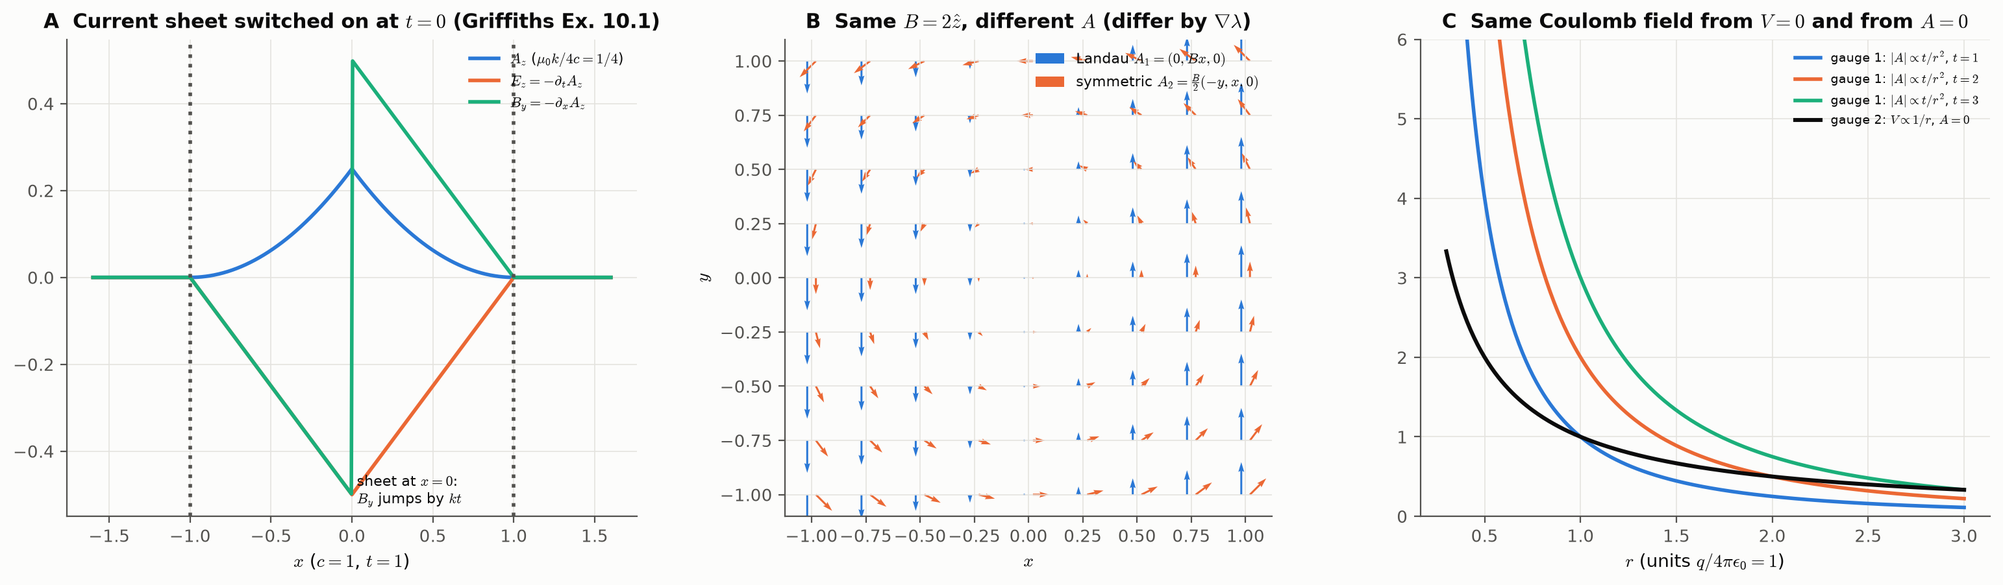
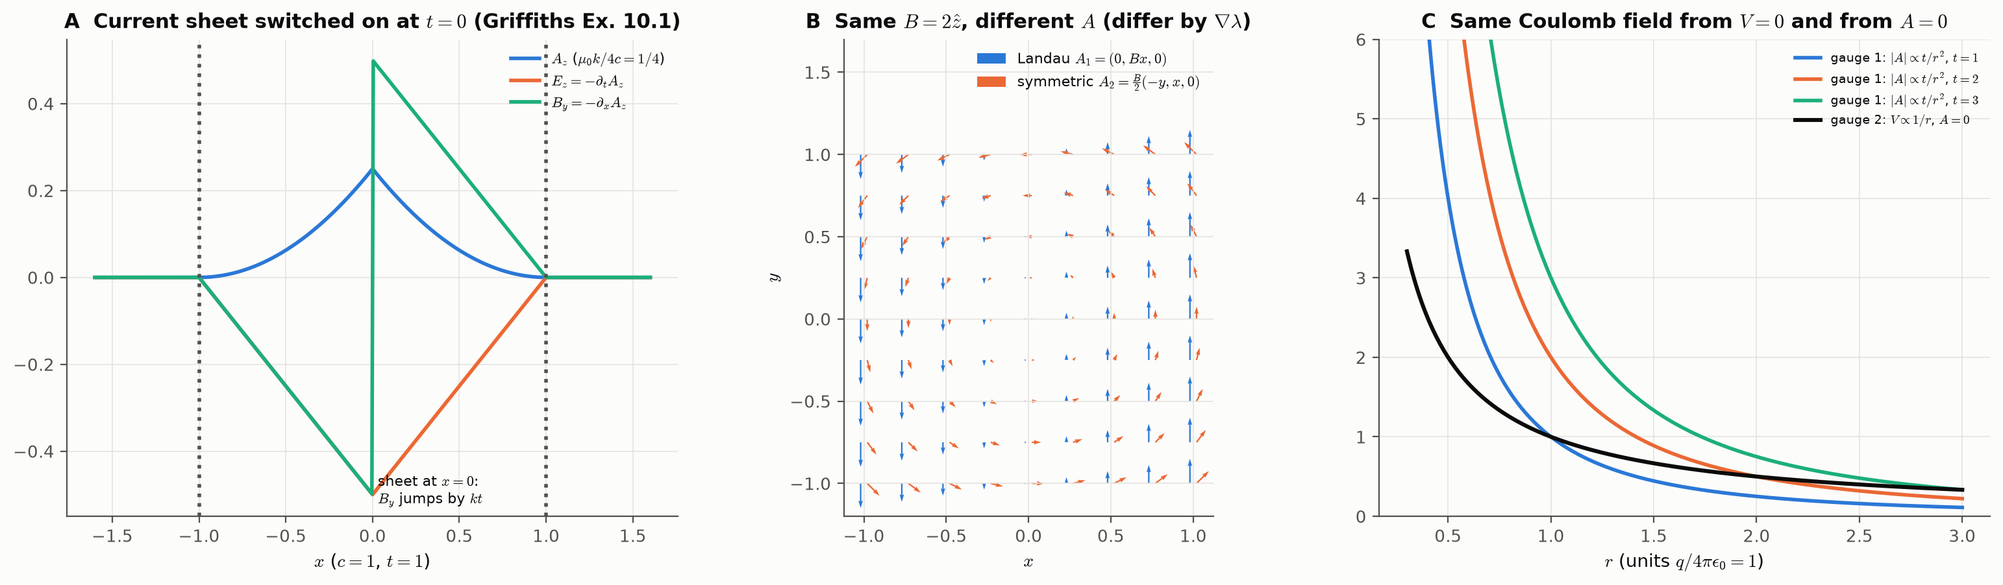
notes: 2026-11-04 13:55

diff --git a/scripts/fig_ed08.py b/scripts/fig_ed08.py
@@ -13,7 +13,7 @@ B=ax[1]
 g=np.linspace(-1,1,9); X,Y=np.meshgrid(g,g)
 B.quiver(X-0.02,Y,0*X,2*X,color=BLUE,angles="xy",scale=30,width=0.004,label="Landau $A_1=(0,Bx,0)$")
 B.quiver(X+0.02,Y,-Y,X,color=ORANGE,angles="xy",scale=30,width=0.004,label="symmetric $A_2=\\frac{B}{2}(-y,x,0)$")
-B.set_aspect("equal"); B.legend(fontsize=8,loc="upper right"); B.set_xlabel("$x$"); B.set_ylabel("$y$"); B.set_title("B  Same $B=2\\hat z$, different $A$ (differ by $\\nabla\\lambda$)")
+B.set_aspect("equal"); B.set_ylim(-1.2,1.7); B.legend(fontsize=8,loc="upper right"); B.set_xlabel("$x$"); B.set_ylabel("$y$"); B.set_title("B  Same $B=2\\hat z$, different $A$ (differ by $\\nabla\\lambda$)")
 C=ax[2]
 r=np.linspace(0.3,3,300)
 for tt,col in ((1,BLUE),(2,ORANGE),(3,AQUA)): C.plot(r,tt/r**2,color=col,label=f"gauge 1: $|A|\\propto t/r^2$, $t={tt}$")

diff --git a/16-Electrodynamics/ED08 Potentials and Gauge Transformations.md b/16-Electrodynamics/ED08 Potentials and Gauge Transformations.md
@@ -1,0 +1,263 @@
+---
+title: ED08 Potentials and Gauge Transformations
+aliases: [ED08, scalar potential, vector potential, potential formulation, gauge transformation, gauge invariance, Lorenz gauge, Lorenz condition, Coulomb gauge, radiation gauge, transverse gauge, d'Alembertian, canonical momentum, Lorentz force in potential form, longitudinal and transverse current]
+subject: electrodynamics
+type: chapter
+chapter: 8
+part: III
+scope: [taught, extra-book, extra-beyond]
+by: [syllabus, book]
+status: draft
+prereq: ["[[ED03 Maxwell's Equations and Boundary Conditions]]", "[[ED05 Electromagnetic Waves in Vacuum]]"]
+tags: [subject/electrodynamics, type/chapter, taught, extra/book, extra/beyond, src/syllabus, src/book, status/draft]
+---
+# ED08 · Potentials and Gauge Transformations
+
+◀ [[ED07 Guided Waves]] · [[Electrodynamics - Course Map]]
+
+<span class="scope-taught">in course overview</span> <span class="scope-extra-book">extra · book</span> <span class="scope-extra-beyond">extra · beyond</span>
+
+> [!warning] Source status (every citation below was read in this session)
+> Overview items *"scalar and vector potentials"* and *"gauge transformations"* (PH3114 outline; no lecture notes in the folder). **Griffiths and Jackson carry equal weight.**
+>
+> **Read directly:** Griffiths §10.1.1-10.1.4 (printed pp. 436-444: scalar and vector potentials, Example 10.1, gauge transformations, Coulomb and Lorenz gauges, the Lorentz force in potential form, with Problems 10.1-10.7 as stated); Jackson §6.2 (pp. 239-240, vector and scalar potentials) and §6.3 (pp. 240-243, gauge transformations, Lorenz and Coulomb gauges, the transverse-current decomposition (6.25)-(6.31)). pdf = printed + 19 (Griffiths), + 26 (Jackson). **Not cited because not read:** Jackson §6.4-6.5 (Green functions and retarded potentials, developed in ED09), Jackson §11.9 (the covariant Lorenz condition, ED11), Griffiths §10.2-10.3, the papers cited in the footnotes.
+
+> [!syllabus] Syllabus map
+> 🟢 **In course overview**: §1 the potentials, §2 gauge freedom, §3 Lorenz gauge, §4 Coulomb gauge.
+>
+> 🟡 **Extra · book**: §4.2 transverse and longitudinal currents (Jackson (6.25)-(6.30)), §5 the Lorentz force in potential form (Griffiths §10.1.4).
+>
+> 🔵 **Extra · beyond (mine)**: the numerical checks of Griffiths' current-sheet potentials, of gauge invariance under an arbitrary $\lambda(\mathbf r,t)$ and of the restricted Lorenz transformation, the Coulomb-gauge solution for a charging point charge, the Landau/symmetric gauge trajectory test, the counting of degrees of freedom, `scripts/ed08_numbers.py`, `scripts/fig_ed08.py`.
+
+> [!key] After this chapter you can
+> - write $\mathbf E=-\nabla V-\partial_t\mathbf A$, $\mathbf B=\nabla\times\mathbf A$ and say which two Maxwell equations this satisfies **identically**,
+> - derive the coupled equations for $V$ and $\mathbf A$ and bring them to the **wave-equation form** in the **Lorenz gauge**,
+> - perform a **gauge transformation**, show the fields are unchanged and the **canonical momentum** is not,
+> - use the **Coulomb gauge** and explain the apparent "instantaneous" scalar potential,
+> - write the **Lorentz force law in potential form** and relate it to the Lagrangian of CM02.
+
+> [!intuition] The one-sentence story
+> The two homogeneous Maxwell equations say that $\mathbf B$ is a curl and that $\mathbf E+\partial_t\mathbf A$ is a gradient; once those are solved identically by writing the fields through $(V,\mathbf A)$, four functions replace six, and the potentials are still only defined up to a gauge function $\lambda(\mathbf r,t)$, a freedom you spend to make the remaining equations as simple as possible: either the symmetric wave equations of the Lorenz gauge, or the instantaneous Poisson equation of the Coulomb gauge.
+
+```mermaid
+flowchart LR
+  A["∇·B = 0 ⇒ B = ∇×A"] --> C["E = -∇V - ∂A/∂t"]
+  B["Faraday ⇒ ∇×(E + ∂A/∂t) = 0"] --> C
+  C --> D["Gauss + Ampère-Maxwell:<br/>2 coupled equations for V, A"]
+  D --> E["gauge freedom:<br/>A → A + ∇λ, V → V - ∂λ/∂t"]
+  E --> F["Lorenz: ∇·A = -μ₀ε₀ ∂V/∂t<br/>⇒ □²V = -ρ/ε₀, □²A = -μ₀J"]
+  E --> G["Coulomb: ∇·A = 0<br/>⇒ ∇²V = -ρ/ε₀"]
+```
+
+## 1. The potentials
+Maxwell's equations (Griffiths (10.1)) $\nabla\!\cdot\!\mathbf E=\rho/\epsilon_0$, $\nabla\!\cdot\!\mathbf B=0$, $\nabla\times\mathbf E=-\partial_t\mathbf B$, $\nabla\times\mathbf B=\mu_0\mathbf J+\mu_0\epsilon_0\partial_t\mathbf E$ ask: given $\rho(\mathbf r,t)$ and $\mathbf J(\mathbf r,t)$, what are $\mathbf E(\mathbf r,t)$ and $\mathbf B(\mathbf r,t)$? "This is not an easy problem, and it pays to begin by representing the fields in terms of potentials" (Griffiths). In electrostatics $\nabla\times\mathbf E=0$ allowed $\mathbf E=-\nabla V$; now $\nabla\times\mathbf E\ne0$. But $\mathbf B$ is still divergenceless, so
+
+$$\mathbf B=\nabla\times\mathbf A\qquad(10.2),\ \text{Jackson (6.7)}.$$
+
+Faraday's law then reads $\nabla\times(\mathbf E+\partial_t\mathbf A)=0$, and a curl-free vector is a gradient:
+
+$$\mathbf E=-\nabla V-\frac{\partial\mathbf A}{\partial t}\qquad(10.3),\ \text{Jackson (6.9)}.$$
+
+"The definition of $\mathbf B$ and $\mathbf E$ in terms of the potentials satisfies identically the two homogeneous Maxwell equations" (Jackson), $\nabla\!\cdot\!\mathbf B=0$ and Faraday. What remains are the two inhomogeneous ones. Substituting:
+
+$$\nabla^2V+\frac\partial{\partial t}(\nabla\!\cdot\!\mathbf A)=-\frac\rho{\epsilon_0}\qquad(10.4),\ \text{Jackson (6.10)},$$
+
+$$\Bigl(\nabla^2\mathbf A-\mu_0\epsilon_0\frac{\partial^2\mathbf A}{\partial t^2}\Bigr)-\nabla\Bigl(\nabla\!\cdot\!\mathbf A+\mu_0\epsilon_0\frac{\partial V}{\partial t}\Bigr)=-\mu_0\mathbf J\qquad(10.5),\ \text{Jackson (6.11)},$$
+
+(the second uses $\nabla\times(\nabla\times\mathbf A)=\nabla(\nabla\!\cdot\!\mathbf A)-\nabla^2\mathbf A$). Griffiths: "Equations 10.4 and 10.5 contain all the information in Maxwell's equations." In the more symmetrical form of his Problem 10.1, with the d'Alembertian $\square^2\equiv\nabla^2-\mu_0\epsilon_0\partial_t^2$ and $L\equiv\nabla\!\cdot\!\mathbf A+\mu_0\epsilon_0\partial_tV$,
+
+$$\square^2V+\frac{\partial L}{\partial t}=-\frac\rho{\epsilon_0},\qquad\square^2\mathbf A-\nabla L=-\mu_0\mathbf J\qquad(10.6),$$
+
+which one checks by adding and subtracting $\mu_0\epsilon_0\partial_t^2V$ in (10.4). Jackson: "we have now reduced the set of four Maxwell equations to two equations. But they are still coupled equations."
+
+> [!example] Worked example 1 (Griffiths Example 10.1): a current sheet switched on at $t=0$
+> The potentials $V=0$, $\mathbf A=\dfrac{\mu_0k}{4c}(ct-|x|)^2\hat{\mathbf z}$ for $|x|<ct$ and $0$ for $|x|>ct$ give, from (10.2)-(10.3),
+>
+> $$\mathbf E=-\partial_t\mathbf A=-\frac{\mu_0k}2(ct-|x|)\hat{\mathbf z},\qquad\mathbf B=\nabla\times\mathbf A=\pm\frac{\mu_0k}{2c}(ct-|x|)\hat{\mathbf y}\ \ (+\text{ for }x>0)$$
+>
+> for $|x|<ct$, and $\mathbf E=\mathbf B=0$ outside. All Maxwell equations hold with $\rho=\mathbf J=0$ except on the plane $x=0$ where $\mathbf B$ jumps by $\mu_0kt$: a uniform surface current $\mathbf K=kt\hat{\mathbf z}$ starting at $t=0$ and growing linearly. "The news travels out (in both directions) at the speed of light": for $|x|>ct$ the message "current is now flowing" has not arrived. Numerical check (units $c=\mu_0=\epsilon_0=1$, $k=1$, central differences at $x=0.3$, $t=1$): $E_z=-0.350000$ and $B_y=+0.350000$ as predicted, and the Faraday and Ampère-Maxwell residuals are $3.5\times10^{-9}$ and $2.1\times10^{-8}$. (Numbers in SI: $K=kt$ with $k=10^6$ A m⁻¹ s⁻¹ and $t=5\ \mu$s gives $B_y(0^\pm)=\pm\mu_0kt/2=\pm3.14\ \mu$T, $E_z(0)=-\mu_0kct/2=-942$ V/m, and fields filling $|x|<ct=1.5$ km.)
+
+![[fig_ed08_gauge.png]]
+
+## 2. Gauge freedom
+Equations (10.2)-(10.3) do not define the potentials uniquely. Suppose $(V,\mathbf A)$ and $(V',\mathbf A')=(V+\beta,\mathbf A+\boldsymbol\alpha)$ give the same fields (Griffiths §10.1.2). Equal $\mathbf B$ requires $\nabla\times\boldsymbol\alpha=0$, so $\boldsymbol\alpha=\nabla\lambda$; equal $\mathbf E$ requires $\nabla\beta+\partial_t\boldsymbol\alpha=0$, i.e. $\nabla(\beta+\partial_t\lambda)=0$, so $\beta=-\partial_t\lambda+k(t)$, and $k(t)$ can be absorbed into $\lambda$. Conclusion:
+
+$$\boxed{\;\mathbf A'=\mathbf A+\nabla\lambda,\qquad V'=V-\frac{\partial\lambda}{\partial t}\;}\qquad(10.7),\ \text{Jackson (6.12)-(6.13)}.$$
+
+For any scalar $\lambda(\mathbf r,t)$ one may add $\nabla\lambda$ to $\mathbf A$ provided one simultaneously subtracts $\partial_t\lambda$ from $V$: this does not affect the physical $\mathbf E$ and $\mathbf B$ (**gauge invariance**). Griffiths' accounting: we have reduced six problems (the components of $\mathbf E$ and $\mathbf B$) to four ($V$ and the three components of $\mathbf A$), and the gauge freedom lets us impose one extra condition, typically on $\nabla\!\cdot\!\mathbf A$, to simplify (10.4)-(10.5). "In electrodynamics the situation is not so clear cut, and the most convenient gauge depends to some extent on the problem at hand."
+
+> [!example] Worked example 2 (Griffiths Problem 10.3, solved here): a static charge from $V=0$
+> $V=0$, $\mathbf A=-\dfrac{1}{4\pi\epsilon_0}\dfrac{qt}{r^2}\hat{\mathbf r}$. Then $\mathbf B=\nabla\times\mathbf A=0$ (a radial function) and $\mathbf E=-\partial_t\mathbf A=\dfrac{q}{4\pi\epsilon_0r^2}\hat{\mathbf r}$: the Coulomb field of a *static* charge $q$ at the origin, with $\rho=q\delta^3(\mathbf r)$ and $\mathbf J=0$. Now apply $\lambda=-\dfrac{1}{4\pi\epsilon_0}\dfrac{qt}r$: $\nabla\lambda=+\dfrac{qt}{4\pi\epsilon_0r^2}\hat{\mathbf r}$ (since $\nabla(1/r)=-\hat{\mathbf r}/r^2$), so $\mathbf A'=\mathbf A+\nabla\lambda=0$ and $V'=V-\partial_t\lambda=\dfrac q{4\pi\epsilon_0r}$: the textbook electrostatic potentials. The two descriptions are very different (one has $V=0$ and a vector potential growing linearly in time, the other has no vector potential) but identical physics (panel C). Neither original gauge condition holds *at the origin* for the first set, because $\nabla\!\cdot(\hat{\mathbf r}/r^2)=4\pi\delta^3(\mathbf r)$ gives $\nabla\!\cdot\!\mathbf A=-(qt/\epsilon_0)\delta^3(\mathbf r)\ne0$.
+
+> [!example] Worked example 3: the gauge function really does nothing to the fields (🔵 numerical)
+> Take the sheet potentials of Example 1 and a deliberately wild gauge function $\lambda(\mathbf r,t)=\sin(x+2y-3z+0.7t)\,e^{-0.1r^2}(1+t)$. At $(0.3,0.2,0.1)$, $t=1$: the potentials change by $|\mathbf A'-\mathbf A|=3.3$, yet recomputing $\mathbf E',\mathbf B'$ by central differences gives differences of only $1.8\times10^{-7}$ and $1.4\times10^{-7}$ (finite-difference error): the fields are unchanged.
+
+## 3. The Lorenz gauge
+### 3.1 The condition and the wave equations
+Choose
+
+$$\nabla\!\cdot\!\mathbf A=-\mu_0\epsilon_0\frac{\partial V}{\partial t}\quad\Bigl(\text{Jackson }(6.14):\ \nabla\!\cdot\!\mathbf A+\frac1{c^2}\frac{\partial V}{\partial t}=0\Bigr)\qquad(10.12).$$
+
+In the language of (10.6) this sets $L=0$ and kills the coupling term in (10.5). The potentials then obey (Griffiths (10.13)-(10.16); Jackson (6.15)-(6.16))
+
+$$\boxed{\;\square^2V=-\frac\rho{\epsilon_0},\qquad\square^2\mathbf A=-\mu_0\mathbf J,\qquad\square^2\equiv\nabla^2-\frac1{c^2}\frac{\partial^2}{\partial t^2}\;}$$
+
+two **uncoupled inhomogeneous wave equations**, treating $V$ and $\mathbf A$ "on an equal footing". Jackson: (6.14)-(6.16) form "a set of equations equivalent in all respects to the Maxwell equations in vacuum". Griffiths: this "democratic treatment" is especially nice for special relativity, where the d'Alembertian is the natural four-dimensional Laplacian and (10.16) are "four-dimensional versions of Poisson's equation"; Jackson gives both reasons for its popularity: the wave equations, and that the Lorenz condition "is a concept independent of the coordinate system chosen and so fits naturally into the considerations of special relativity" (his §11.9, ED11). From now on Griffiths uses the Lorenz gauge exclusively, "and the whole of electrodynamics reduces to the problem of solving the inhomogeneous wave equation for a specified source" (ED09). (Footnote: the name honours L. V. Lorenz, 1867, not H. A. Lorentz; Jackson cites "Lorenz condition (1867)".)
+
+### 3.2 Can it always be imposed?
+Yes. Suppose $(V,\mathbf A)$ satisfy (10.4)-(10.5) but not the Lorenz condition. A gauge transformation to $(V',\mathbf A')$ satisfies it if
+
+$$\nabla^2\lambda-\frac1{c^2}\frac{\partial^2\lambda}{\partial t^2}=-\Bigl(\nabla\!\cdot\!\mathbf A+\frac1{c^2}\frac{\partial V}{\partial t}\Bigr)\qquad(6.18),$$
+
+an inhomogeneous wave equation for $\lambda$, which always has solutions (Griffiths Problem 10.6 asks the same). There is **residual freedom**: the restricted transformations with $\square^2\lambda=0$ (Jackson (6.19)-(6.20)) preserve the Lorenz condition, and "all potentials in this restricted class are said to belong to the Lorenz gauge".
+
+> [!example] Worked example 4: a restricted transformation and a plane wave (Griffiths Problem 10.4 setting)
+> $V=0$, $\mathbf A=A_0\sin(kx-\omega t)\hat{\mathbf y}$: $\nabla\!\cdot\!\mathbf A=0$ and $\partial_tV=0$, so this is in the Coulomb **and** the Lorenz gauge ("these gauges are not mutually exclusive", Griffiths). Then $\mathbf E=-\partial_t\mathbf A=\omega A_0\cos(kx-\omega t)\hat{\mathbf y}$ and $\mathbf B=\nabla\times\mathbf A=kA_0\cos(kx-\omega t)\hat{\mathbf z}$, with $E/B=\omega/k$; Maxwell's equations in vacuum hold only if $\omega=ck$ (so $E=cB$, ED05). Now transform with $\lambda=\sin(kx-\omega t)$: $\square^2\lambda=-(k^2-\omega^2/c^2)\sin(kx-\omega t)=0$ precisely when $\omega=ck$, so this $\lambda$ is in the restricted class: the new potentials $A_x'=k\cos(kx-\omega t)$, $V'=\omega\cos(kx-\omega t)$ still satisfy the Lorenz condition ($\nabla\!\cdot\!\mathbf A'+c^{-2}\partial_tV'=-k^2\sin+\omega^2c^{-2}\sin=0$) but no longer the Coulomb condition, and give the same $\mathbf E,\mathbf B$.
+
+## 4. The Coulomb gauge
+### 4.1 The scalar potential is instantaneous
+Choose $\nabla\!\cdot\!\mathbf A=0$ (Griffiths (10.8); Jackson (6.21), "the Coulomb, radiation, or transverse gauge"), as in magnetostatics. Then (10.4) becomes Poisson's equation,
+
+$$\nabla^2V=-\frac\rho{\epsilon_0},\qquad V(\mathbf r,t)=\frac1{4\pi\epsilon_0}\int\frac{\rho(\mathbf r',t)}{|\mathbf r-\mathbf r'|}\,\mathrm d\tau'\qquad(10.9)\text{-}(10.10),\ (6.22)\text{-}(6.23):$$
+
+the instantaneous Coulomb potential of the charge distribution *now*, whence the name. Griffiths calls this "a very peculiar thing": if I move an electron in my laboratory the potential on the moon immediately records the change, which seems to contradict special relativity. His resolution (and Jackson's): *$V$ alone is not measurable*; what is measured is $\mathbf E=-\nabla V-\partial_t\mathbf A$, and in the Coulomb gauge the combination changes only after the news arrives, because the vector potential compensates. Jackson adds that the vector potential obeys a wave equation with finite speed $c$, and that the source for it, the transverse current (§4.2), "extends over all space, even if $\mathbf J$ is localized". "It is the fields, not the potentials, that concern us."
+
+### 4.2 The vector potential and the transverse current (🟡)
+In this gauge (10.5) becomes $\nabla^2\mathbf A-\mu_0\epsilon_0\partial_t^2\mathbf A=-\mu_0\mathbf J+\mu_0\epsilon_0\nabla(\partial_tV)$ (Griffiths (10.11), Jackson (6.24)). Griffiths' verdict: the scalar potential is "particularly simple to calculate"; the disadvantages are the acausal-looking $V$ and that $\mathbf A$ is "particularly difficult to calculate". Jackson explains the structure of the awkward term. The $\nabla\partial_tV$ term is a gradient (curl-free). Write any current as $\mathbf J=\mathbf J_l+\mathbf J_t$ with $\nabla\times\mathbf J_l=0$ (longitudinal, irrotational) and $\nabla\!\cdot\!\mathbf J_t=0$ (transverse, solenoidal), constructed explicitly as
+
+$$\mathbf J_l=-\frac1{4\pi}\nabla\!\int\frac{\nabla'\!\cdot\!\mathbf J(\mathbf x')}{|\mathbf x-\mathbf x'|}\mathrm d^3x'\ (6.27),\qquad\mathbf J_t=\frac1{4\pi}\nabla\times\nabla\times\!\int\frac{\mathbf J(\mathbf x')}{|\mathbf x-\mathbf x'|}\mathrm d^3x'\ (6.28)$$
+
+(from $\nabla\times\nabla\times\mathbf J=\nabla(\nabla\!\cdot\!\mathbf J)-\nabla^2\mathbf J$ and $\nabla^2|\mathbf x-\mathbf x'|^{-1}=-4\pi\delta^3$). With the continuity equation and (6.23) the gradient term exactly cancels $\mu_0\mathbf J_l$ (6.29), so
+
+$$\nabla^2\mathbf A-\frac1{c^2}\frac{\partial^2\mathbf A}{\partial t^2}=-\mu_0\mathbf J_t\qquad(6.30):$$
+
+the source is entirely the transverse current, hence the name "transverse gauge". "Radiation gauge" because the transverse radiation fields are given by the vector potential alone and the instantaneous Coulomb potential contributes only to the near fields; Jackson notes the gauge is particularly useful in quantum electrodynamics, where photons arise from quantizing only $\mathbf A$. With **no sources** the Coulomb gauge is the simplest: $V=0$, $\mathbf A$ satisfies the homogeneous wave equation, and
+
+$$\mathbf E=-\frac{\partial\mathbf A}{\partial t},\qquad\mathbf B=\nabla\times\mathbf A\qquad(6.31),$$
+
+as in Worked example 4.
+
+> [!example] Worked example 5 (Griffiths Problem 10.7, solved here): a point charge that is changing
+> $\rho=q(t)\delta^3(\mathbf r)$ fed by the current $\mathbf J=-\dfrac1{4\pi}\dfrac{\dot q}{r^2}\hat{\mathbf r}$ (Griffiths' form). Charge conservation: away from the origin $\nabla\!\cdot\!\mathbf J=0=-\partial_t\rho$; at the origin the delta function in $\nabla\!\cdot\!\mathbf J=-\dot q\,\delta^3(\mathbf r)$ balances $\partial_t\rho=\dot q\,\delta^3$ ✓. **Coulomb gauge:** $V=\dfrac{q(t)}{4\pi\epsilon_0r}$ (instantaneous, from (10.10)) and $\mathbf A=0$ solves (10.11): its right-hand side is $-\mu_0\mathbf J+\mu_0\epsilon_0\nabla(\partial_tV)=-\mu_0\mathbf J+\dfrac{\mu_0\dot q}{4\pi}\nabla\dfrac1r=-\mu_0\mathbf J-\dfrac{\mu_0\dot q}{4\pi}\dfrac{\hat{\mathbf r}}{r^2}=0$ ✓ (the longitudinal current is cancelled exactly). The fields are $\mathbf E=\dfrac{q(t)}{4\pi\epsilon_0r^2}\hat{\mathbf r}$, $\mathbf B=0$, and Ampère-Maxwell checks: $0=\mu_0\mathbf J+\mu_0\epsilon_0\partial_t\mathbf E=\mu_0\mathbf J+\dfrac{\mu_0\dot q}{4\pi r^2}\hat{\mathbf r}$ ✓. The field at distance $r$ changes *instantly* when $q(t)$ changes: this looks acausal but the source is a pathological, spherically symmetric current that has no transverse part (a point charge changing without moving charge flowing in from elsewhere in a physically causal way); in the Lorenz gauge the same fields arise from retarded potentials (ED09).
+
+## 5. The Lorentz force in potential form (🟡, Griffiths §10.1.4)
+The force on a charge is $\mathbf F=\dfrac{\mathrm d\mathbf p}{\mathrm dt}=q(\mathbf E+\mathbf v\times\mathbf B)=q\bigl[-\nabla V-\partial_t\mathbf A+\mathbf v\times(\nabla\times\mathbf A)\bigr]$ (10.17). With $\nabla(\mathbf v\!\cdot\!\mathbf A)=\mathbf v\times(\nabla\times\mathbf A)+(\mathbf v\!\cdot\!\nabla)\mathbf A$ ($\mathbf v$ is a function of time, not of position),
+
+$$\frac{\mathrm d\mathbf p}{\mathrm dt}=-q\Bigl[\frac{\partial\mathbf A}{\partial t}+(\mathbf v\!\cdot\!\nabla)\mathbf A\Bigr]-q\nabla\bigl(V-\mathbf v\!\cdot\!\mathbf A\bigr)\qquad(10.18).$$
+
+The bracket is the **convective derivative** $\mathrm d\mathbf A/\mathrm dt$, the rate of change of $\mathbf A$ at the moving location of the particle (10.19): it changes for two reasons, because $\mathbf A$ varies in time and because the particle moves to where $\mathbf A$ differs. So
+
+$$\frac{\mathrm d}{\mathrm dt}\bigl(\mathbf p+q\mathbf A\bigr)=-\nabla\bigl[q(V-\mathbf v\!\cdot\!\mathbf A)\bigr]\qquad(10.20),$$
+
+"reminiscent of the standard formula from mechanics, for the motion of a particle whose potential energy $U$ is a specified function of position", $\mathrm d\mathbf p/\mathrm dt=-\nabla U$: the role of $\mathbf p$ is played by the **canonical momentum** $\mathbf p_{\rm can}=\mathbf p+q\mathbf A$ (10.21) and that of $U$ by the velocity-dependent $U_{\rm vel}=q(V-\mathbf v\!\cdot\!\mathbf A)$ (10.22). This is exactly the velocity-dependent potential and the Lagrangian $L=\tfrac12mv^2-qV+q\mathbf A\!\cdot\!\mathbf v$ of **CM02 §6.1** (Goldstein (1.62)-(1.63)), and the canonical momentum of CM03 §2: Euler-Lagrange for this $L$ is (10.20). A gauge transformation changes the Lagrangian by a total derivative, $L'=L+q(\partial_t\lambda+\mathbf v\!\cdot\!\nabla\lambda)=L+q\,\mathrm d\lambda/\mathrm dt$ (CM02 P9, CM01 §5): same equations of motion, but $\mathbf p_{\rm can}\to\mathbf p_{\rm can}+q\nabla\lambda$. This is why *physical* predictions involve $\mathbf p_{\rm can}-q\mathbf A=m\mathbf v$ and never $\mathbf p_{\rm can}$ alone. (In quantum mechanics this becomes minimal coupling, $\mathbf p\to\mathbf p-q\mathbf A$; my remark, not from the sources.)
+
+> [!example] Worked example 6: Landau versus symmetric gauge (🔵, ties to CM03 Worked example 1)
+> Uniform $\mathbf B=B\hat{\mathbf z}$ has two standard vector potentials, $\mathbf A_1=(0,Bx,0)$ and $\mathbf A_2=\tfrac B2(-y,x,0)$, both with $\nabla\times\mathbf A=B\hat{\mathbf z}$. Their difference is $\mathbf A_1-\mathbf A_2=\tfrac B2(y,x,0)=\nabla\lambda$ with $\lambda=Bxy/2$. Hamilton's equations $H=(\mathbf p-q\mathbf A)^2/2m$ in each gauge, with $q=m=1$, $B=2$, started from the same position $(1,0)$ and velocity $(0.5,0.3)$: the canonical momenta differ ($\mathbf p_1=(0.5,2.3)$, $\mathbf p_2=(0.5,1.3)$, difference $q\nabla\lambda=(0,1)$ at that point) but the trajectories coincide: at $t=5$ the positions are $(1.139855,-0.541371)$ in both gauges.
+
+## 6. Counting what is physical (🔵)
+Six field components, $\mathbf E$ and $\mathbf B$, become four potential components. One gauge function $\lambda$ removes one combination, and Gauss's law is an equation of constraint on the remaining three (ED03 §4.2); what is left is two independent field degrees of freedom per point: the two polarizations of a free wave (ED05 §4). In the Lorenz gauge the residual freedom $\square^2\lambda=0$ plays the same role; in the Coulomb gauge with no sources $V=0$ and the condition $\nabla\!\cdot\!\mathbf A=0$ makes $\mathbf A$ transverse, with exactly two components.
+
+## Map of this chapter
+```mermaid
+flowchart TD
+  M["homogeneous Maxwell"] --> P["B = ∇×A, E = -∇V - ∂A/∂t"]
+  P --> EQ["(10.4), (10.5)"]
+  P --> GF["gauge: A + ∇λ, V - ∂λ/∂t"]
+  GF --> LG["Lorenz: wave equations"]
+  GF --> CG["Coulomb: Poisson + transverse J"]
+  GF --> PC["canonical momentum shifts<br/>by q ∇λ"]
+  P --> LF["Lorentz force: d(p + qA)/dt = -∇[q(V - v·A)]"]
+  LF --> LAG["Lagrangian (CM02)"]
+```
+
+## Common mistakes
+1. Treating $V$ and $\mathbf A$ as measurable: only $\mathbf E$ and $\mathbf B$ are (and $\mathbf p-q\mathbf A$ for a charge).
+2. Changing $\mathbf A$ by $\nabla\lambda$ without changing $V$ by $-\partial_t\lambda$ (or the reverse).
+3. Using the Coulomb-gauge $V$ as a signal: it is instantaneous but $\mathbf E$ is not.
+4. Believing the Lorenz gauge is a unique choice: residual gauge transformations with $\square^2\lambda=0$ remain.
+5. Dropping the longitudinal-current cancellation when deriving the Coulomb-gauge equation for $\mathbf A$.
+6. Assuming gauges are mutually exclusive: a pure plane wave with $V=0$, $\nabla\!\cdot\!\mathbf A=0$ is in both.
+
+## Summary
+- $\mathbf B=\nabla\times\mathbf A$, $\mathbf E=-\nabla V-\partial_t\mathbf A$ solve $\nabla\!\cdot\!\mathbf B=0$ and Faraday identically; the other two give (10.4)-(10.5).
+- Gauge transformation $\mathbf A'=\mathbf A+\nabla\lambda$, $V'=V-\partial_t\lambda$; $\mathbf E,\mathbf B$ invariant.
+- Lorenz gauge $\nabla\!\cdot\!\mathbf A=-\mu_0\epsilon_0\partial_tV$: $\square^2V=-\rho/\epsilon_0$, $\square^2\mathbf A=-\mu_0\mathbf J$; residual $\square^2\lambda=0$.
+- Coulomb gauge $\nabla\!\cdot\!\mathbf A=0$: $\nabla^2V=-\rho/\epsilon_0$ (instantaneous), $\square^2\mathbf A=-\mu_0\mathbf J_t$; source-free: $V=0$.
+- Force: $\mathrm d(\mathbf p+q\mathbf A)/\mathrm dt=-\nabla[q(V-\mathbf v\!\cdot\!\mathbf A)]$; $\mathbf p_{\rm can}\to\mathbf p_{\rm can}+q\nabla\lambda$, $L\to L+q\,\mathrm d\lambda/\mathrm dt$.
+- Numbers: sheet field $B_y=3.14\ \mu$T at $t=5\ \mu$s; fields invariant to $10^{-7}$ under a wild $\lambda$; trajectories identical in both gauges to $10^{-8}$.
+
+## Practice
+> [!question]- P1. Homogeneous equations
+> Show $\nabla\!\cdot\!\mathbf B=0$ and Faraday's law hold identically for (10.2)-(10.3).
+> **Solution.** $\nabla\!\cdot(\nabla\times\mathbf A)=0$; $\nabla\times\mathbf E=-\nabla\times\nabla V-\partial_t\nabla\times\mathbf A=-\partial_t\mathbf B$.
+
+> [!question]- P2. Derive (10.4)
+> Insert $\mathbf E=-\nabla V-\partial_t\mathbf A$ into Gauss's law.
+> **Solution.** $\nabla\!\cdot\!\mathbf E=-\nabla^2V-\partial_t(\nabla\!\cdot\!\mathbf A)=\rho/\epsilon_0$.
+
+> [!question]- P3. Symmetric form (Griffiths Problem 10.1)
+> Show (10.4)-(10.5) are equivalent to (10.6).
+> **Solution.** Add $\mp\mu_0\epsilon_0\partial_t^2V$: $\nabla^2V+\partial_t\nabla\!\cdot\!\mathbf A=\square^2V+\mu_0\epsilon_0\partial_t^2V+\partial_t\nabla\!\cdot\!\mathbf A=\square^2V+\partial_tL$; (10.5) is $\square^2\mathbf A-\nabla L=-\mu_0\mathbf J$ directly.
+
+> [!question]- P4. Gauge freedom
+> Prove the most general change of potentials leaving $\mathbf E,\mathbf B$ unchanged is (10.7).
+> **Solution.** §2: $\nabla\times\boldsymbol\alpha=0\Rightarrow\boldsymbol\alpha=\nabla\lambda$; $\nabla(\beta+\partial_t\lambda)=0$.
+
+> [!question]- P5. Lorenz equations
+> Derive $\square^2V=-\rho/\epsilon_0$ and $\square^2\mathbf A=-\mu_0\mathbf J$ from (10.6).
+> **Solution.** $L=0$ in the Lorenz gauge.
+
+> [!question]- P6. Imposing the Lorenz condition
+> Find the equation $\lambda$ must satisfy to bring $(V,\mathbf A)$ into the Lorenz gauge.
+> **Solution.** (6.18): $\square^2\lambda=-(\nabla\!\cdot\!\mathbf A+c^{-2}\partial_tV)$.
+
+> [!question]- P7. Static charge, two gauges
+> From $V=0$, $\mathbf A=-qt\hat{\mathbf r}/4\pi\epsilon_0r^2$ find $\mathbf E,\mathbf B$ and the gauge function giving the Coulomb potential.
+> **Solution.** Worked example 2: $\mathbf E=q\hat{\mathbf r}/4\pi\epsilon_0r^2$, $\mathbf B=0$; $\lambda=-qt/4\pi\epsilon_0r$.
+
+> [!question]- P8. Plane wave in a gauge (Griffiths Problem 10.4)
+> $V=0$, $\mathbf A=A_0\sin(kx-\omega t)\hat{\mathbf y}$: find $\mathbf E,\mathbf B$ and the condition on $\omega,k$.
+> **Solution.** $\mathbf E=\omega A_0\cos(\cdot)\hat{\mathbf y}$, $\mathbf B=kA_0\cos(\cdot)\hat{\mathbf z}$; $\omega=ck$.
+
+> [!question]- P9. Which gauge?
+> For Examples 1, 2 and 4: Coulomb, Lorenz, both or neither?
+> **Solution.** Example 1: $\nabla\!\cdot\!\mathbf A=0$ and $V=0$: both. Example 4: both. Example 2 ($V=0$, $\mathbf A\propto t\hat{\mathbf r}/r^2$): $\nabla\!\cdot\!\mathbf A=0$ away from the origin but $-(qt/\epsilon_0)\delta^3$ at it: neither at the origin.
+
+> [!question]- P10. Sheet numbers
+> A sheet current $K=kt$, $k=10^6$ A m⁻¹ s⁻¹: find $B$ and $E$ at the sheet at $t=5\ \mu$s and the extent of the fields.
+> **Solution.** $B=\mu_0kt/2=3.14\ \mu$T, $|E|=\mu_0kct/2=942$ V/m, region $|x|<ct=1.5$ km.
+
+> [!question]- P11. Causality of the Coulomb gauge
+> Explain why the instantaneous $V$ does not violate relativity.
+> **Solution.** $V$ is not measurable; $\mathbf E=-\nabla V-\partial_t\mathbf A$ depends also on $\mathbf A$, which obeys a wave equation with finite speed and a transverse source extending over all space.
+
+> [!question]- P12. Coulomb-gauge $\mathbf A$
+> Show the longitudinal part of $\mathbf J$ cancels the $\nabla\partial_tV$ term in (10.11).
+> **Solution.** Taking the divergence of Ampère-Maxwell with continuity and (10.9): $\mu_0\epsilon_0\nabla\partial_tV=\mu_0\mathbf J_l$ (6.29).
+
+> [!question]- P13. Two gauges for uniform $B$
+> Find $\lambda$ with $\mathbf A_1-\mathbf A_2=\nabla\lambda$.
+> **Solution.** $\lambda=Bxy/2$.
+
+> [!question]- P14. Canonical momentum
+> By how much does $\mathbf p_{\rm can}$ change under a gauge transformation, and what does $L$ pick up?
+> **Solution.** $\mathbf p_{\rm can}\to\mathbf p_{\rm can}+q\nabla\lambda$; $L\to L+q\,\mathrm d\lambda/\mathrm dt$.
+
+> [!question]- P15. Degrees of freedom
+> Count the independent field degrees of freedom of a free wave from the potentials.
+> **Solution.** Four potential components, minus one for gauge, minus one for Gauss's constraint: two (the polarizations).
+
+## Zettel notes
+<!-- zettel:start -->
+<!-- zettel:end -->
+
+## Provenance
+> [!provenance]- Source map for this chapter (all rows read in this session)
+> | Topic | Source | Scope |
+> |---|---|---|
+> | potentials (10.2)-(10.6), Example 10.1, Problems 10.1-10.2 | Griffiths §10.1.1 (pp. 436-439) | in overview |
+> | gauge transformations (10.7), Problems 10.3-10.4; Coulomb and Lorenz gauges (10.8)-(10.16), Problems 10.5-10.7, footnotes | Griffiths §10.1.2-10.1.3 (pp. 439-442) | in overview |
+> | Lorentz force in potential form (10.17)-(10.22) | Griffiths §10.1.4 (pp. 442-444) | extra/book |
+> | vector and scalar potentials (6.7)-(6.11) | Jackson §6.2 (pp. 239-240) | in overview |
+> | gauge transformations, Lorenz gauge (6.12)-(6.20), Coulomb/radiation gauge (6.21)-(6.31), causality remark | Jackson §6.3 (pp. 240-243) | in overview |
+> | sheet numbers, gauge-invariance test, restricted gauge, Coulomb-gauge point charge, Landau/symmetric trajectories | `scripts/ed08_numbers.py`, `scripts/fig_ed08.py` | extra/beyond |
